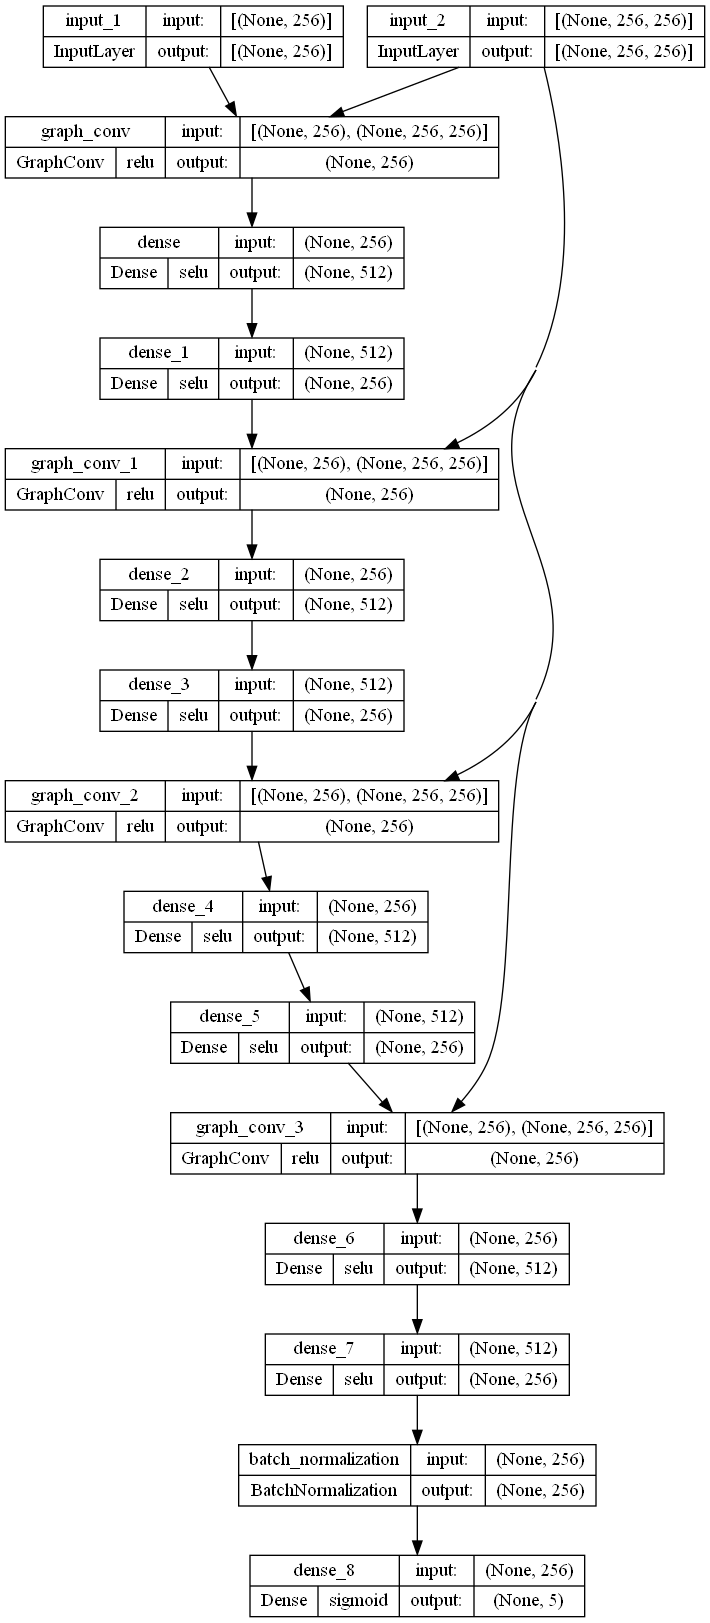
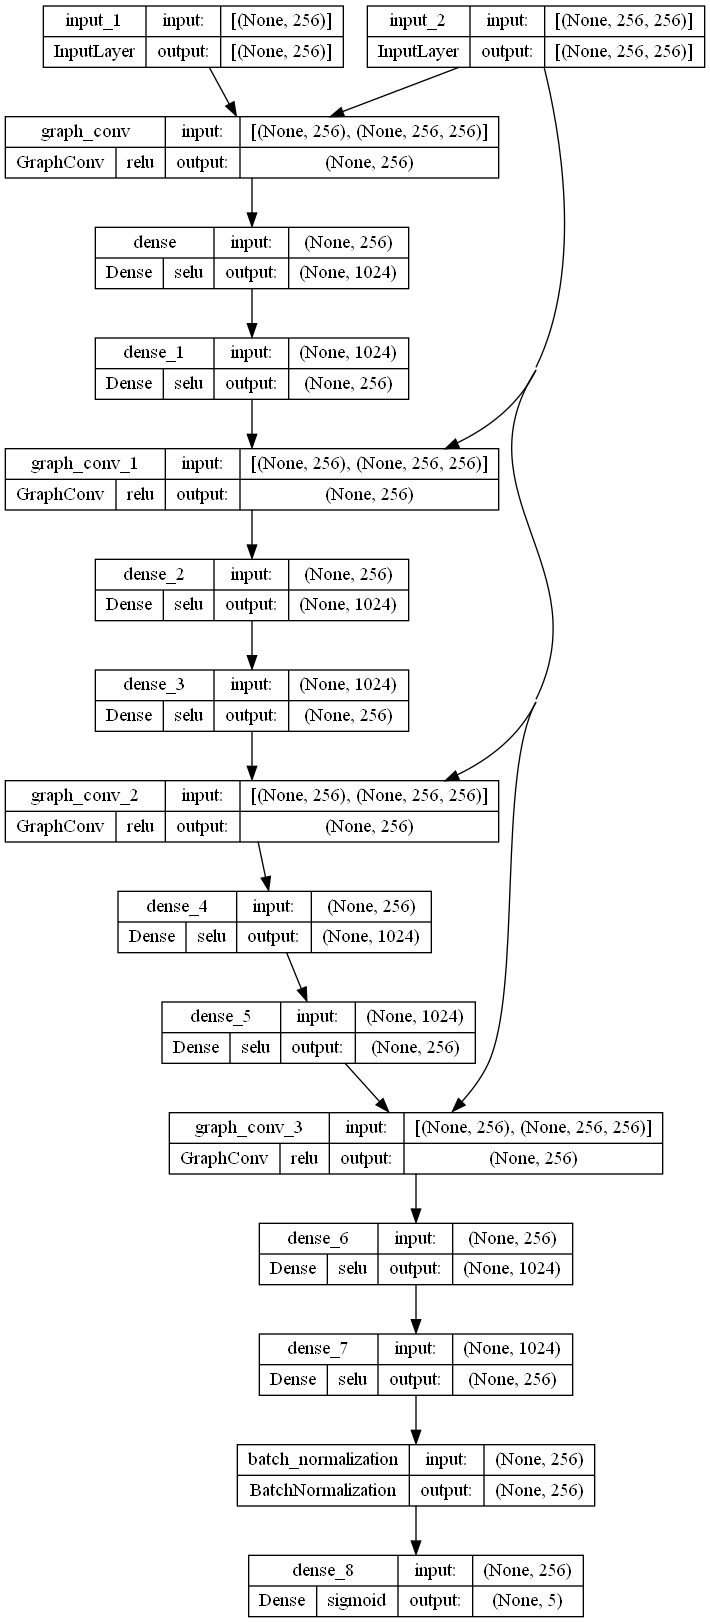
Update

diff --git a/Model/GNN/ScorePredictor.py b/Model/GNN/ScorePredictor.py
@@ -28,16 +28,16 @@ def model_build():
     feature_input = tf.keras.Input(shape=(256,))
     adjacent_matrix = tf.keras.Input(shape=(256, 256))
     x = GraphConv(num_outputs=256, activation='relu')([feature_input, adjacent_matrix])
-    x = tf.keras.layers.Dense(512, activation=tf.nn.selu)(x)
+    x = tf.keras.layers.Dense(1024, activation=tf.nn.selu)(x)
     x = tf.keras.layers.Dense(256, activation=tf.nn.selu)(x)
     x = GraphConv(num_outputs=256, activation='relu')([x, adjacent_matrix])
-    x = tf.keras.layers.Dense(512, activation=tf.nn.selu)(x)
+    x = tf.keras.layers.Dense(1024, activation=tf.nn.selu)(x)
     x = tf.keras.layers.Dense(256, activation=tf.nn.selu)(x)
     x = GraphConv(num_outputs=256, activation='relu')([x, adjacent_matrix])
-    x = tf.keras.layers.Dense(512, activation=tf.nn.selu)(x)
+    x = tf.keras.layers.Dense(1024, activation=tf.nn.selu)(x)
     x = tf.keras.layers.Dense(256, activation=tf.nn.selu)(x)
     x = GraphConv(num_outputs=256, activation='relu')([x, adjacent_matrix])
-    x = tf.keras.layers.Dense(512, activation=tf.nn.selu)(x)
+    x = tf.keras.layers.Dense(1024, activation=tf.nn.selu)(x)
     x = tf.keras.layers.Dense(256, activation=tf.nn.selu)(x)
     x = tf.keras.layers.BatchNormalization()(x)
     outputs = tf.keras.layers.Dense(5, activation=tf.nn.sigmoid)(x)
@@ -50,7 +50,7 @@ def model_train(model, all_input, all_adj, all_output):
         optimizer=tf.keras.optimizers.Adam(learning_rate=1e-3, decay=1e-7),
         loss=tf.keras.losses.BinaryCrossentropy(),
         metrics=['accuracy'],
-        run_eagerly=True
+        # run_eagerly=True
     )
     ckpt = tf.keras.callbacks.ModelCheckpoint(
         filepath='ScorePredictor.h5',
@@ -93,7 +93,7 @@ def model_test(model, all_input, all_adj, all_output):
 
 
 if __name__ == '__main__':
-    train = False
+    train = True
     test = not train
     all_input_, all_adj_, all_output_ = data_load(new_data=False)
     if os.path.exists('ScorePredictor.h5'):
